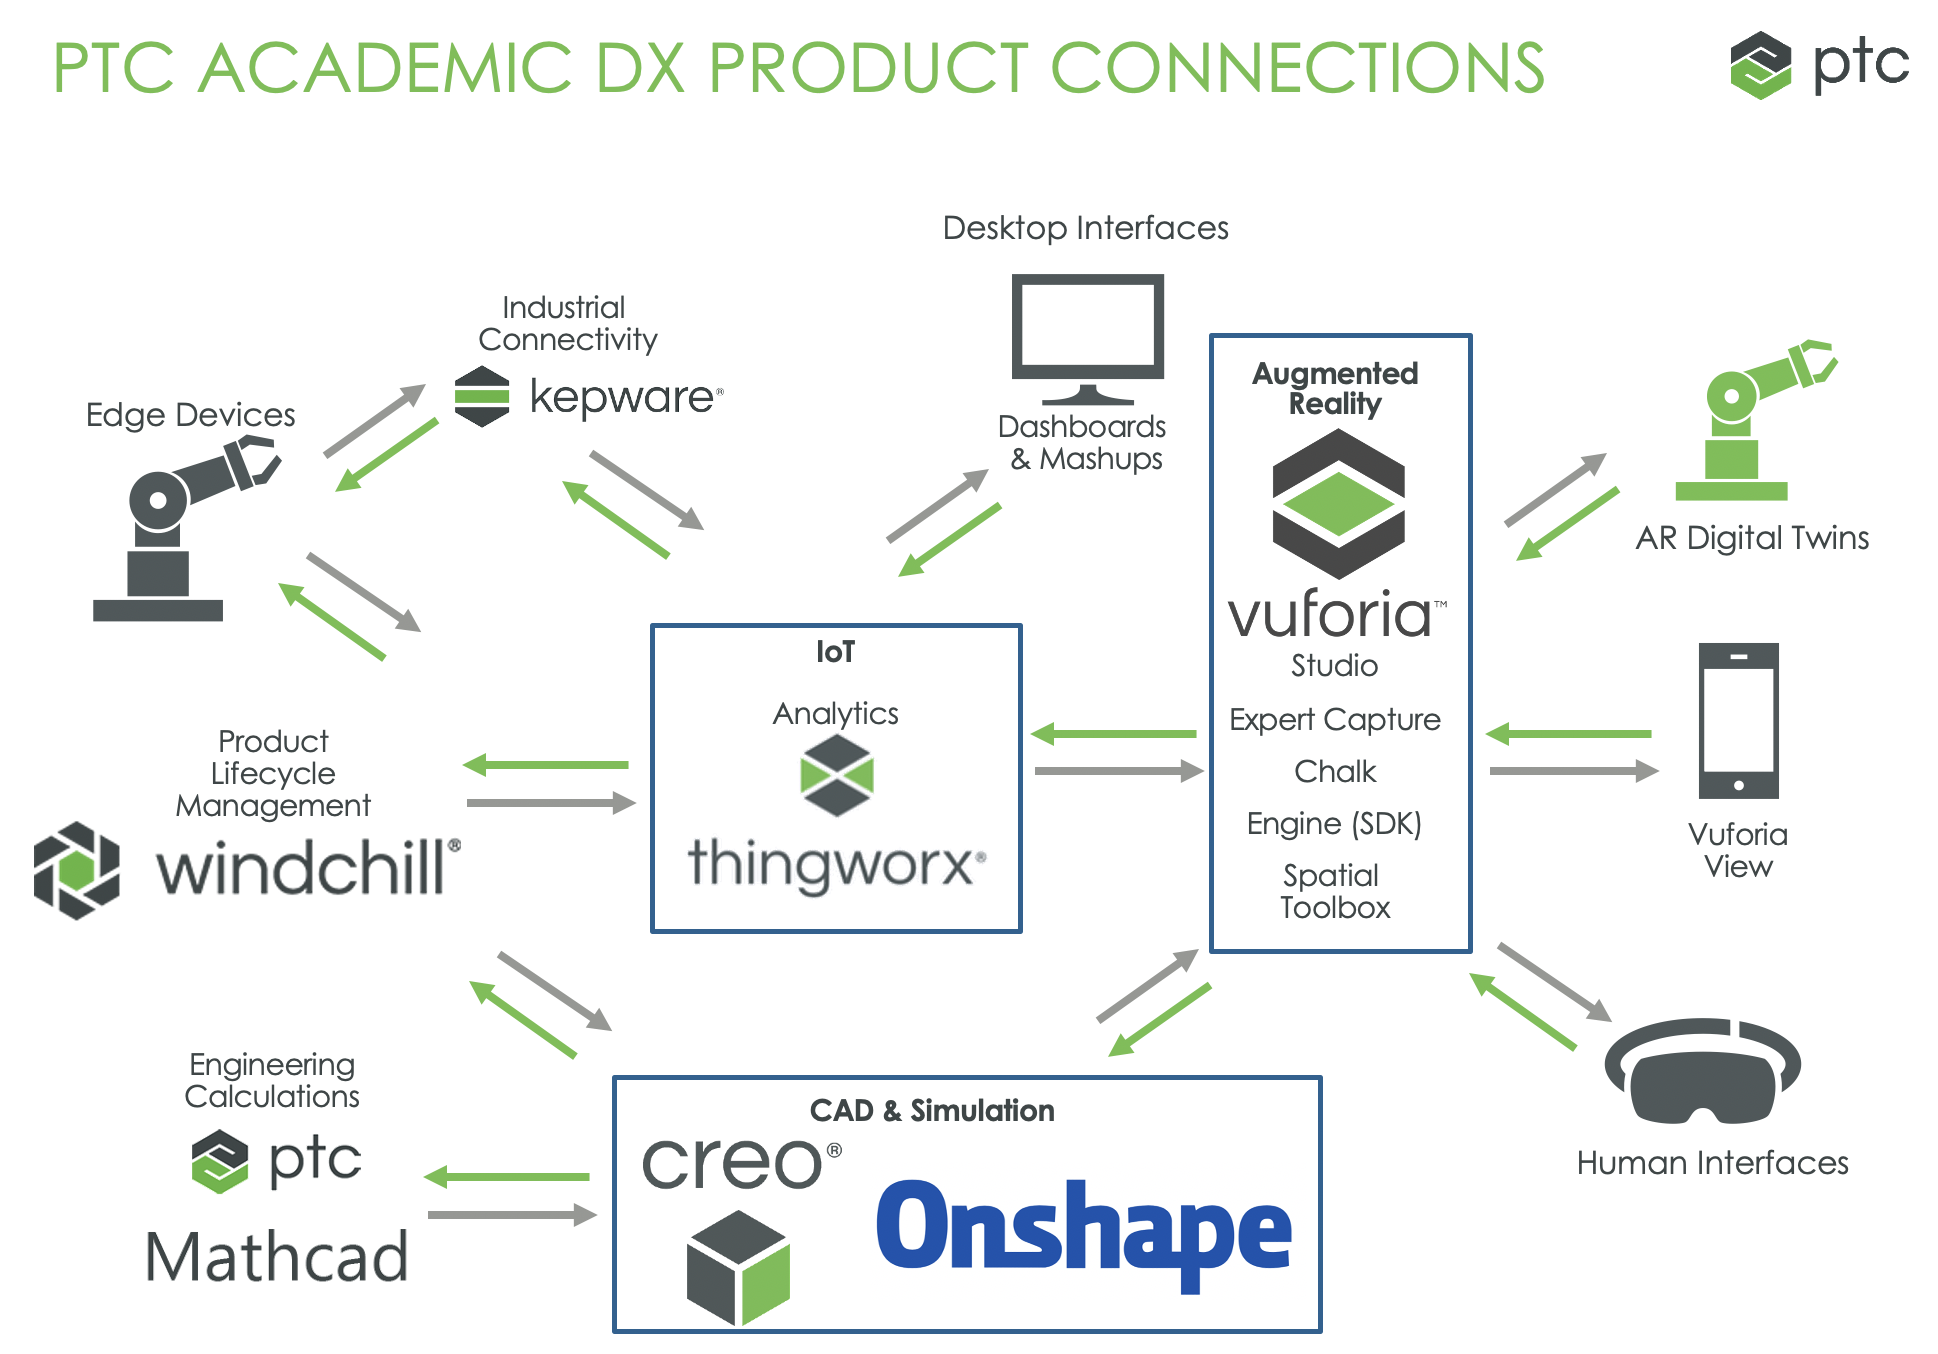
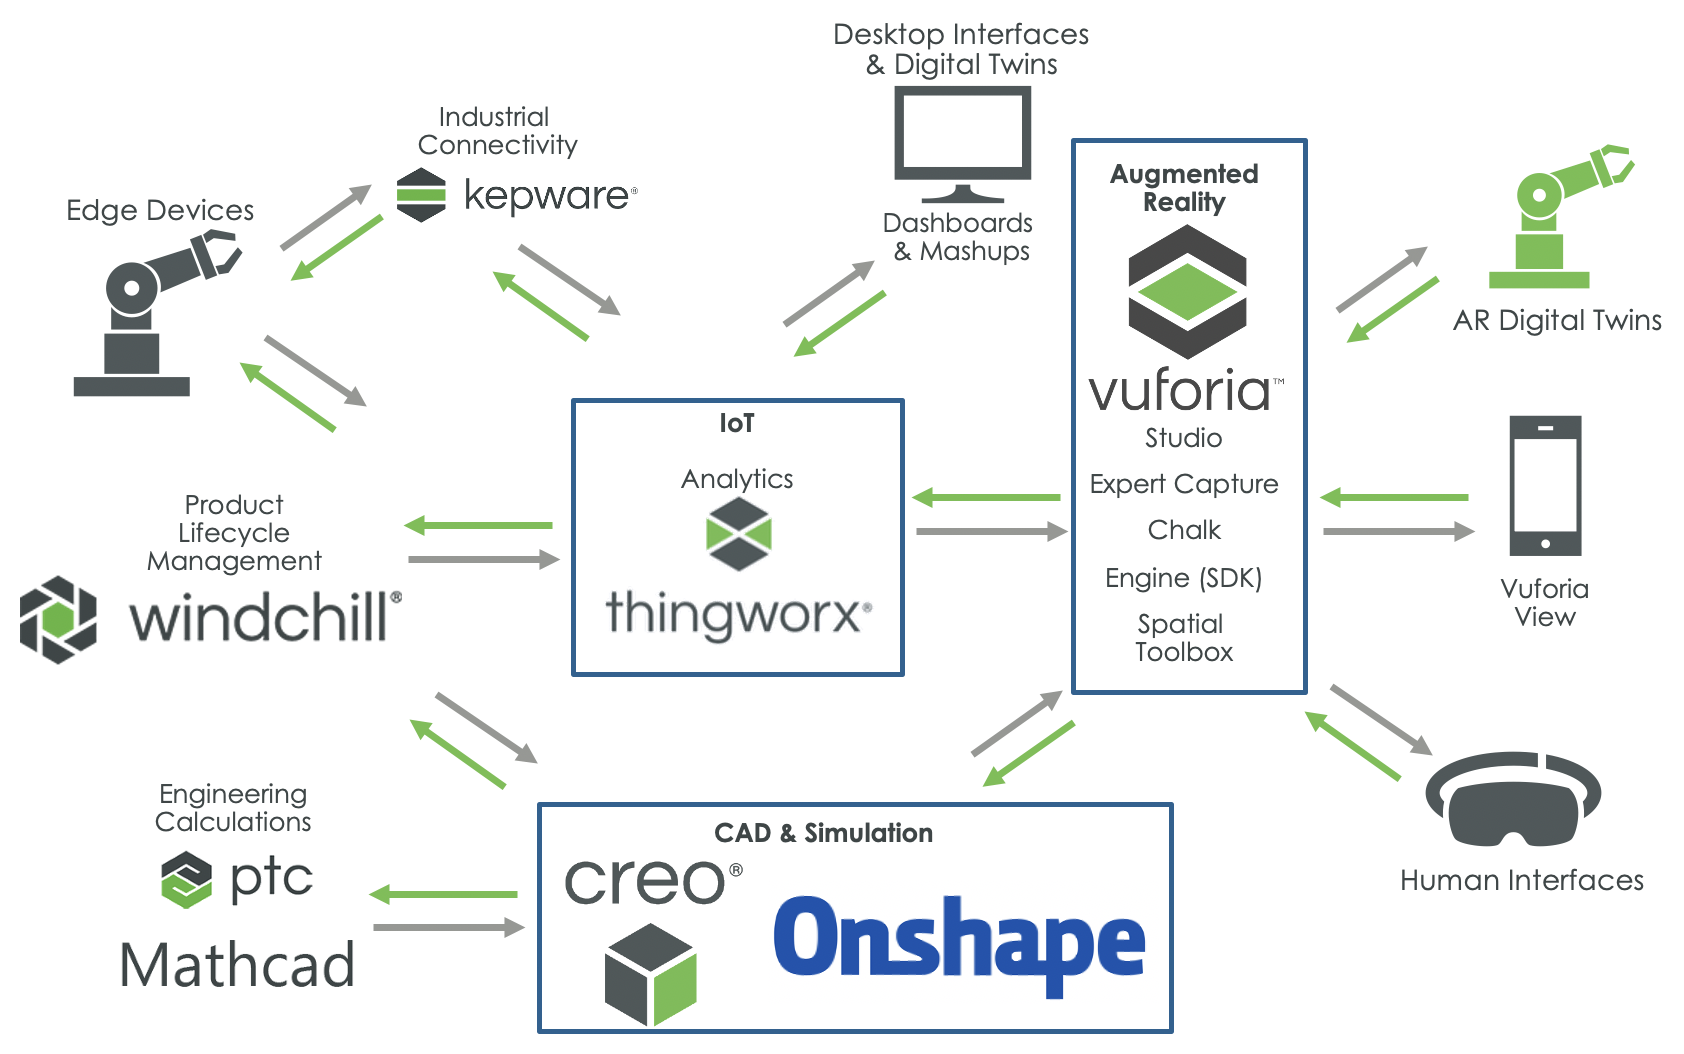
updated map, added header

Changed region(s): [[0.0, 0.0304, 0.9881, 1.0], [0.0309, 0.0304, 0.2779, 0.0911], [0.8955, 0.0304, 0.9881, 0.0911]]

diff --git a/README.md b/README.md
@@ -17,7 +17,7 @@ This is a collection of learning materials and technical resources that illustra
 * [Digital Thread (PDM &amp; PLM)](https://github.com/PTC-Academic/DX-Resources#digital-thread-pdm--plm)
     * [Onshape PDM](https://github.com/PTC-Academic/DX-Resources#onshape-pdm)
 
-    
+# PTC Digital Transformation Products Map
 ![PTC Academic Digital Transformation Products Map](https://github.com/PTC-Academic/DX-Resources/blob/master/images/AP-overview.png?raw=true)
 
 Within each objective, solutions are next organzied by the primary technology involved.
